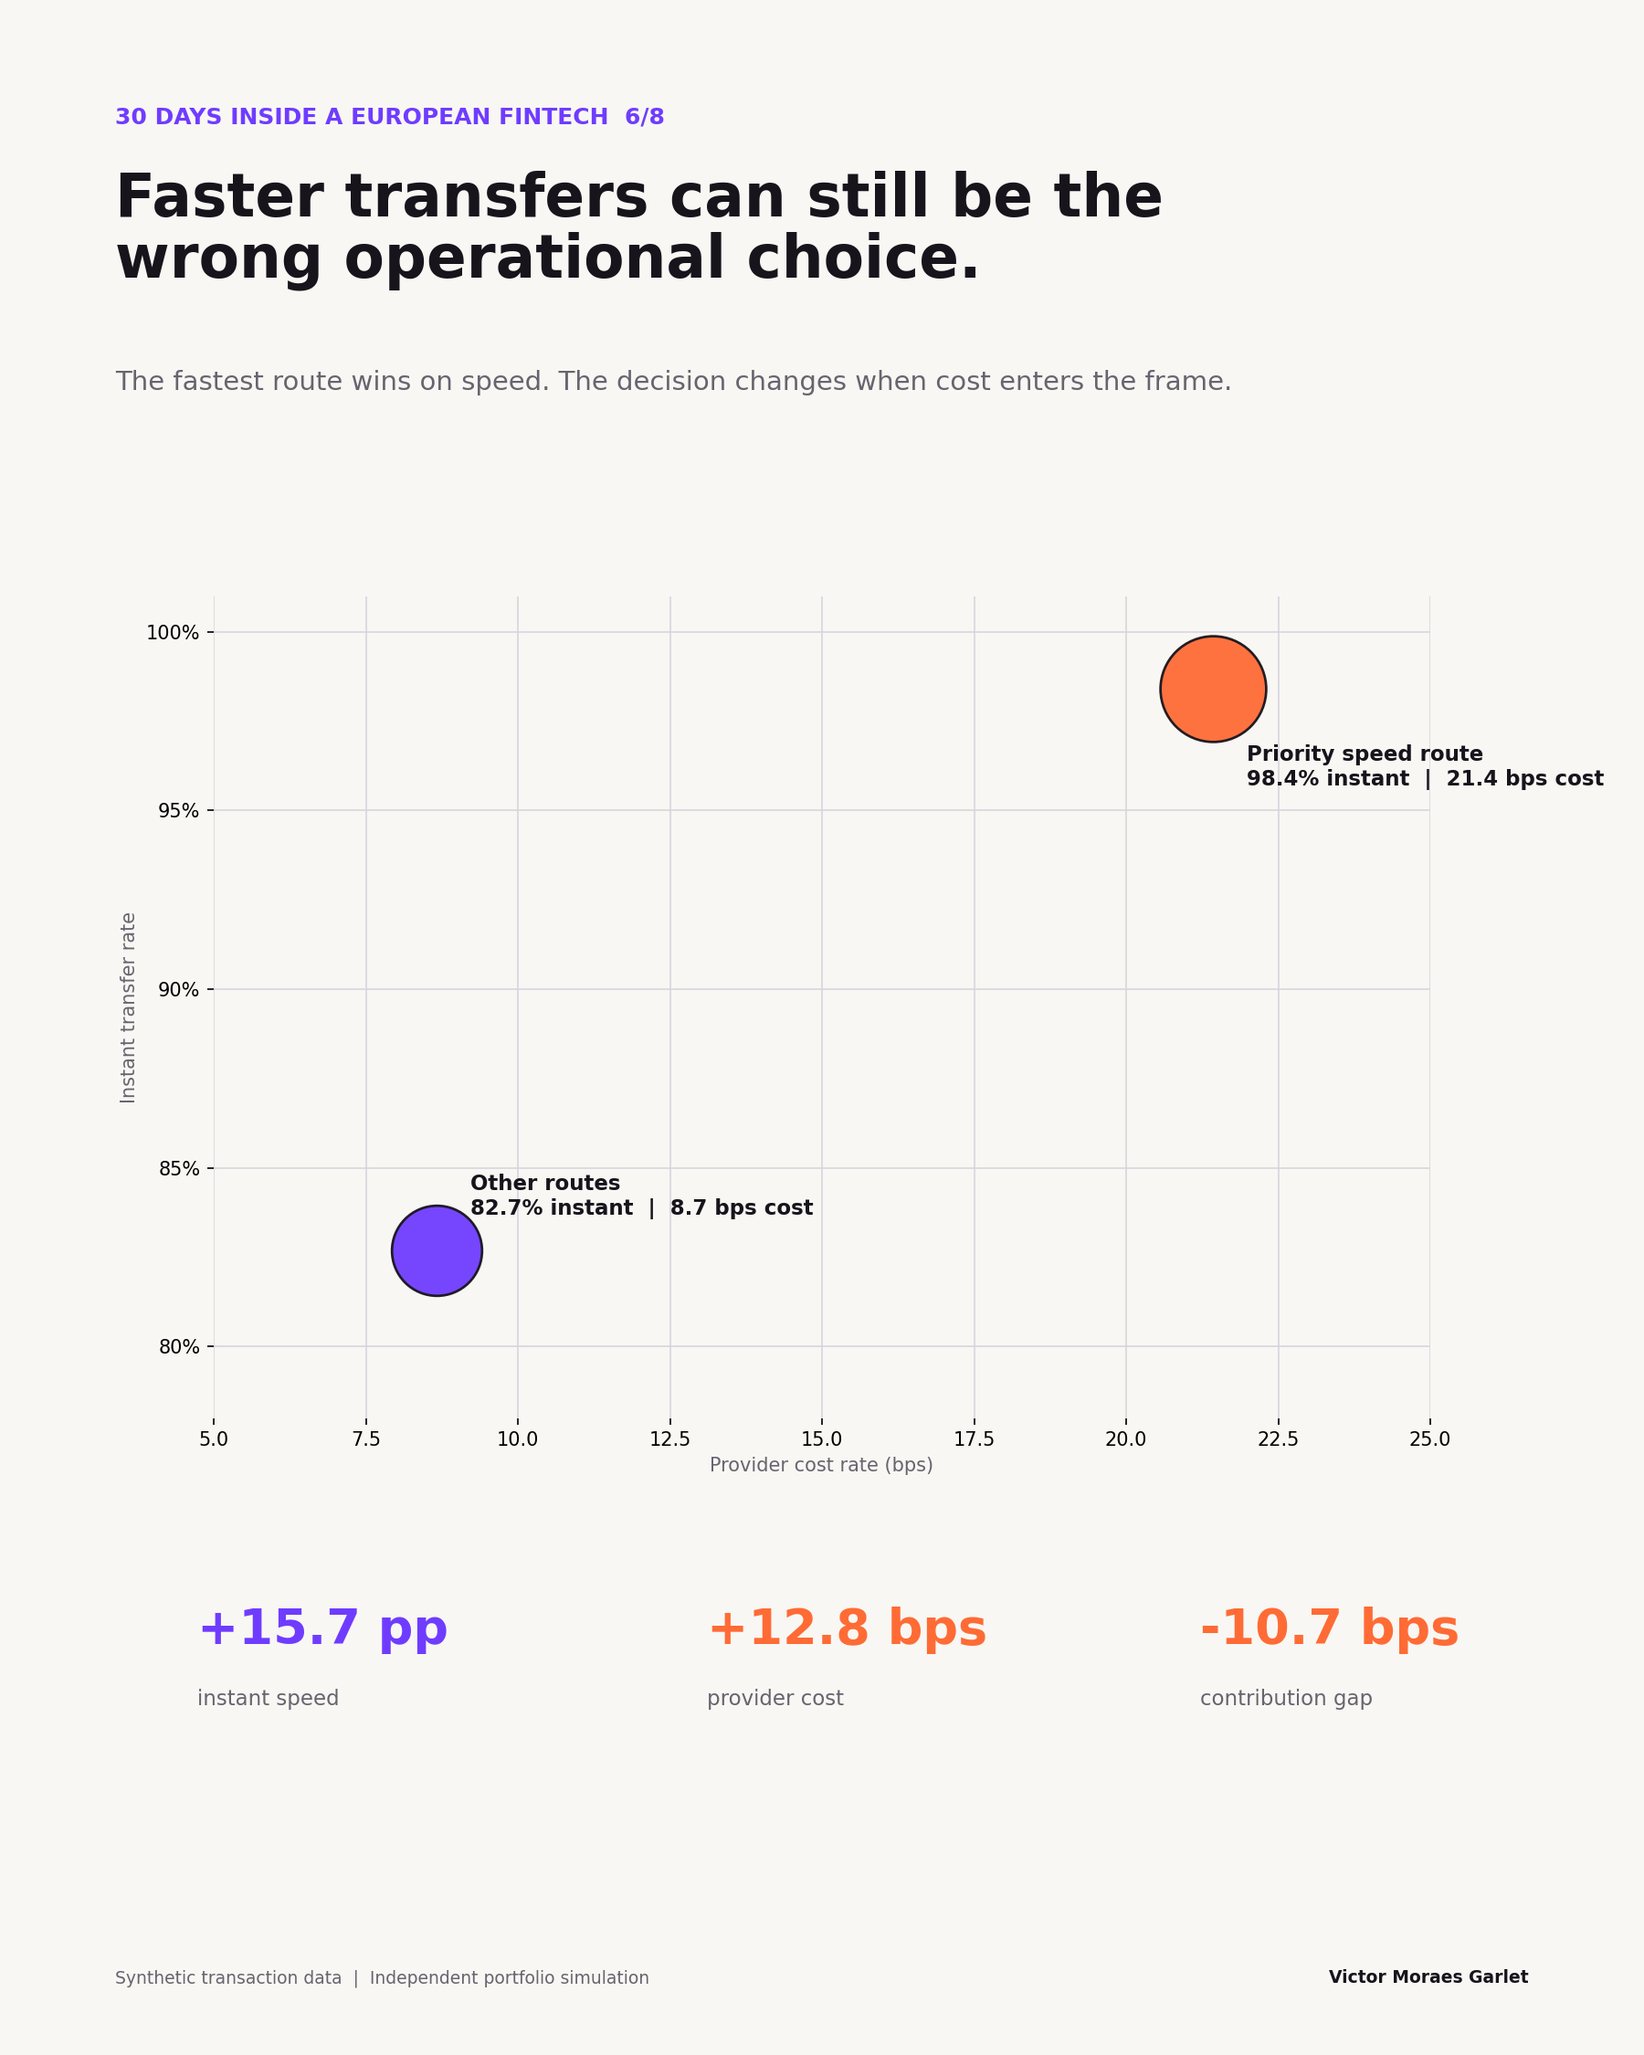
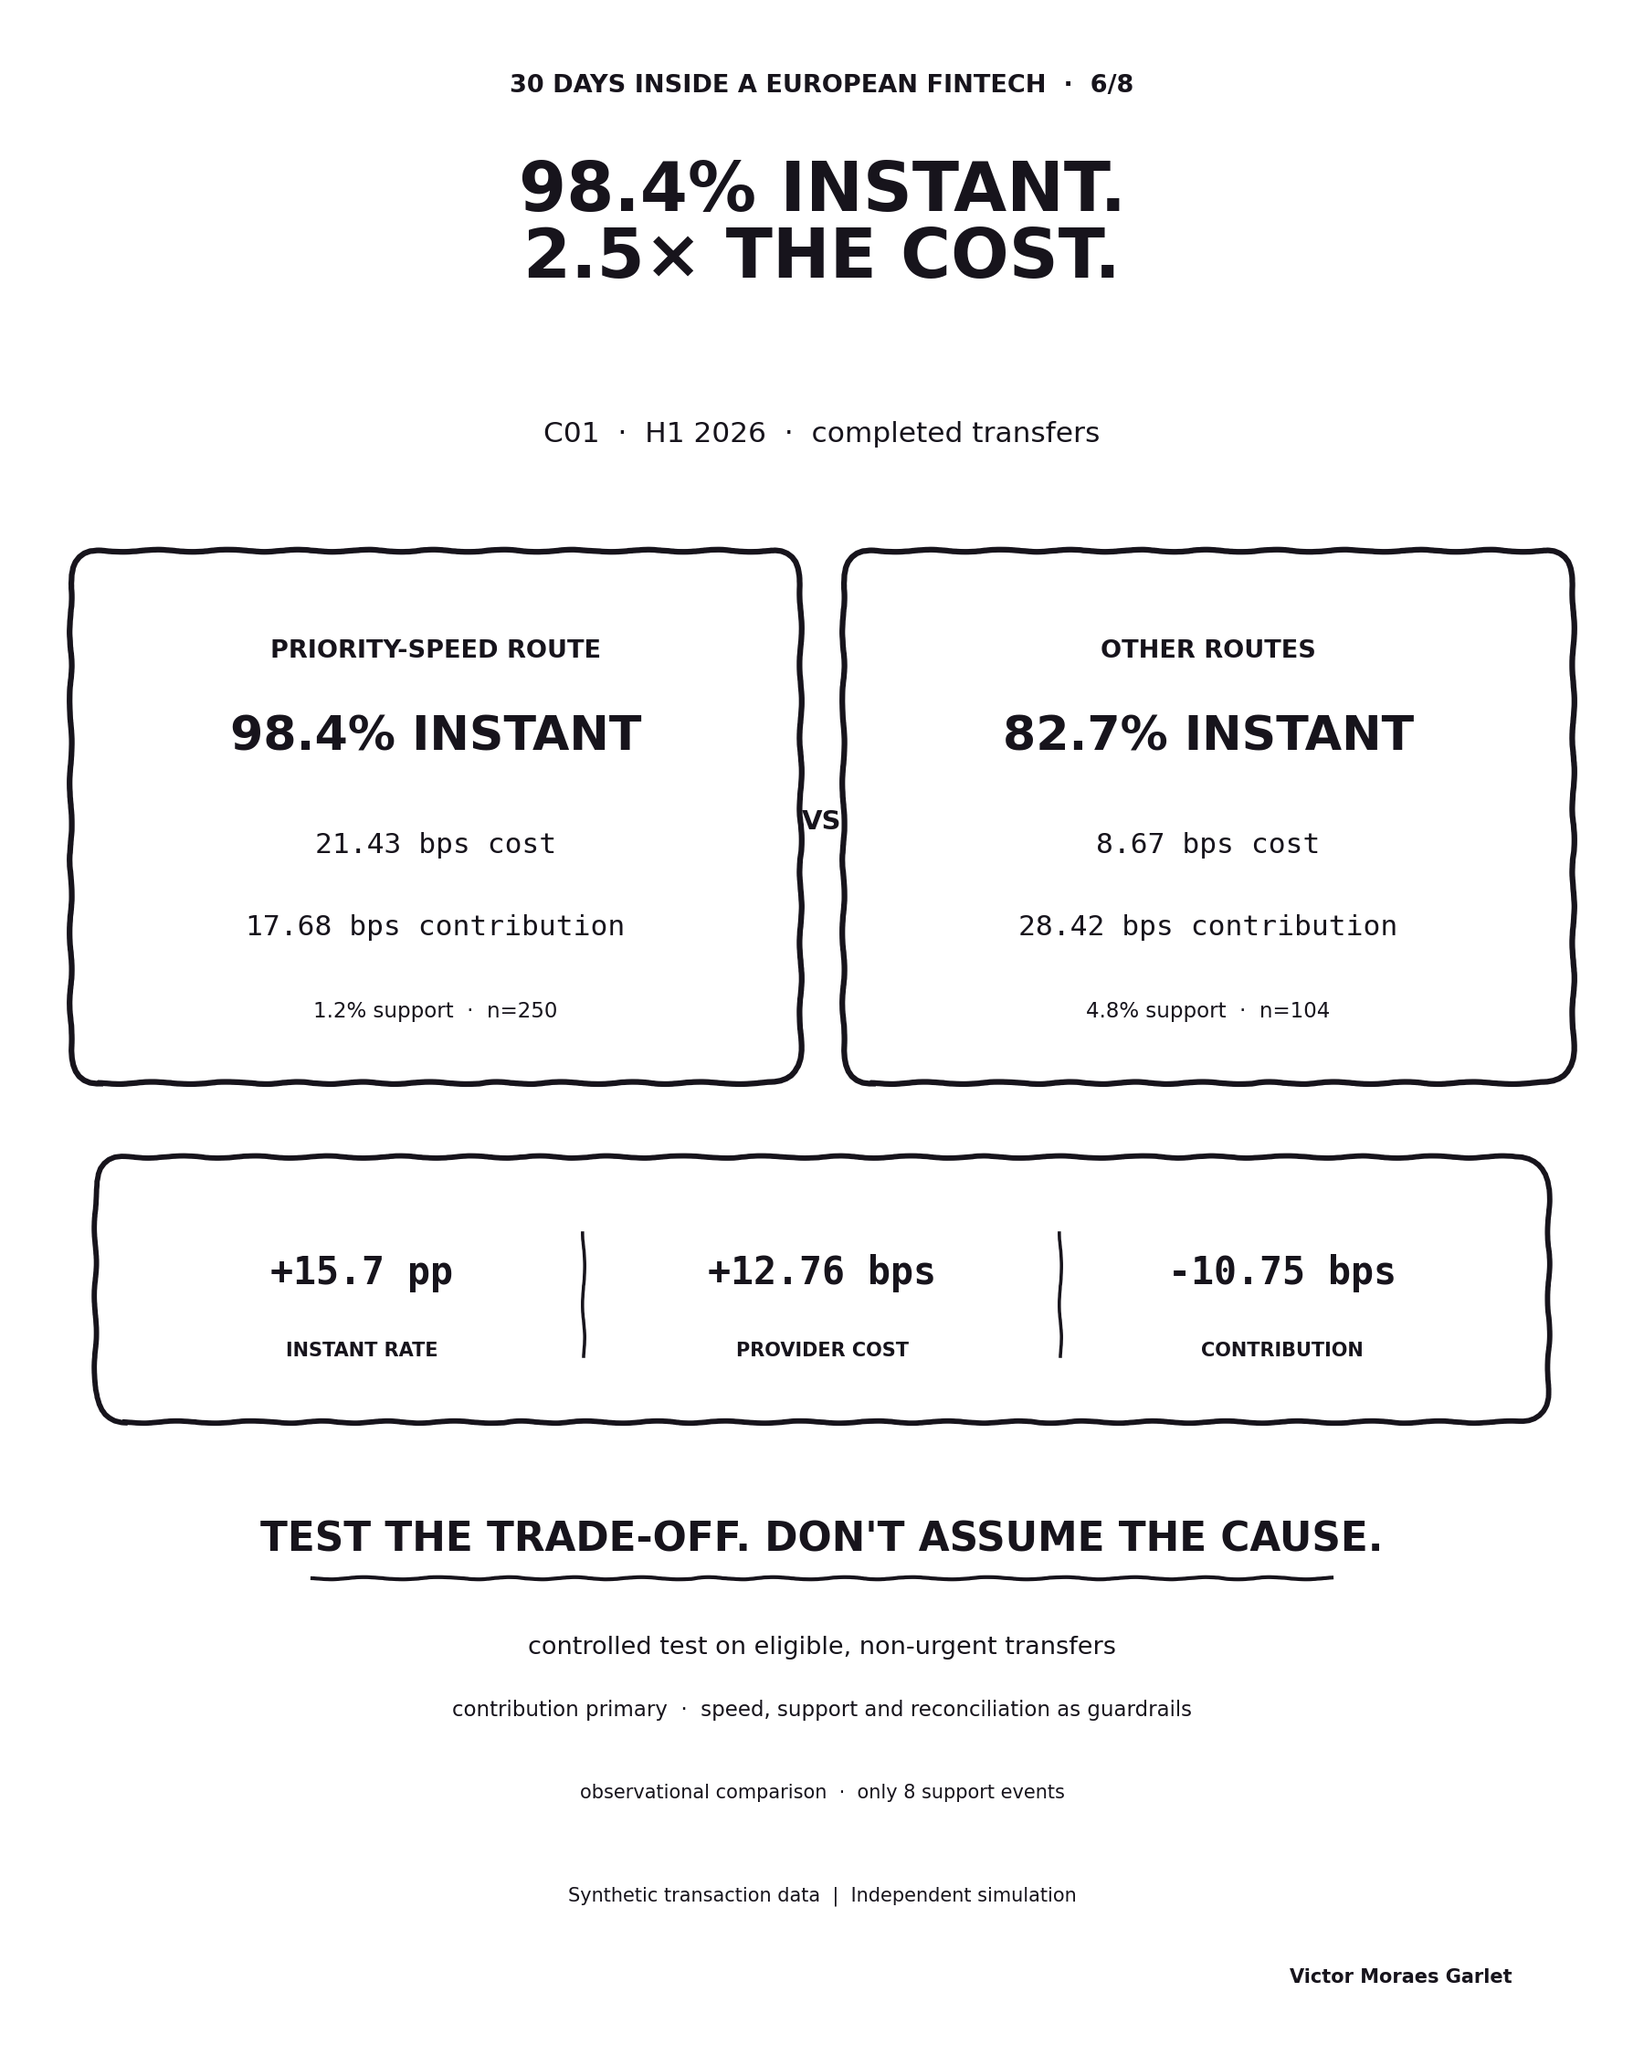
Approve and schedule episode 6

diff --git a/scripts/build_visuals.py b/scripts/build_visuals.py
@@ -464,40 +464,82 @@ def build_episode_05(connection):
 def build_episode_06(connection):
     rows = connection.execute(
         """
-        select route_group, instant_transfer_rate * 100, provider_cost_rate_bps,
-               support_contact_rate * 100, contribution_margin_proxy_bps, volume_usd
+        select route_group, completed_transfers, instant_transfer_rate * 100,
+               provider_cost_rate_bps, support_contact_rate * 100,
+               contribution_margin_proxy_bps
         from marts.mart_speed_cost_tradeoff
         order by provider_cost_rate_bps desc
         """
     ).fetchall()
-    fig, _ = base_figure(
-        6,
-        "Faster transfers can still be the\nwrong operational choice.",
-        "The fastest route wins on speed. The decision changes when cost enters the frame.",
-    )
-    ax = fig.add_axes((0.13, 0.31, 0.74, 0.40), facecolor=PAPER)
-    ax.spines[:].set_visible(False)
-    ax.grid(color=LINE, linewidth=0.8)
-    for route, instant, cost, support, contribution, volume in rows:
-        color = ORANGE if route == "priority_speed_route" else PURPLE
-        label = "Priority speed route" if route == "priority_speed_route" else "Other routes"
-        ax.scatter(cost, instant, s=volume / 320, color=color, edgecolor=INK, linewidth=1.3, alpha=0.95)
-        offset = (0.55, -2.7) if route == "priority_speed_route" else (0.55, 1.0)
-        ax.text(cost + offset[0], instant + offset[1], f"{label}\n{instant:.1f}% instant  |  {cost:.1f} bps cost", color=INK, fontsize=11, fontweight="bold")
-    ax.set_xlabel("Provider cost rate (bps)", color=MUTED)
-    ax.set_ylabel("Instant transfer rate", color=MUTED)
-    ax.set_yticks([80, 85, 90, 95, 100], ["80%", "85%", "90%", "95%", "100%"])
-    ax.set_xlim(5, 25)
-    ax.set_ylim(78, 101)
-
     priority = next(row for row in rows if row[0] == "priority_speed_route")
     other = next(row for row in rows if row[0] == "other_routes")
-    fig.text(0.12, 0.20, f"+{priority[1] - other[1]:.1f} pp", color=PURPLE, fontsize=26, fontweight="bold")
-    fig.text(0.12, 0.17, "instant speed", color=MUTED, fontsize=11)
-    fig.text(0.43, 0.20, f"+{priority[2] - other[2]:.1f} bps", color=ORANGE, fontsize=26, fontweight="bold")
-    fig.text(0.43, 0.17, "provider cost", color=MUTED, fontsize=11)
-    fig.text(0.73, 0.20, f"{priority[4] - other[4]:.1f} bps", color=ORANGE, fontsize=26, fontweight="bold")
-    fig.text(0.73, 0.17, "contribution gap", color=MUTED, fontsize=11)
+    instant_gap = priority[2] - other[2]
+    cost_gap = priority[3] - other[3]
+    contribution_gap = priority[5] - other[5]
+    cost_multiple = priority[3] / other[3]
+    support_events = round(priority[1] * priority[4] / 100 + other[1] * other[4] / 100)
+
+    fig = plt.figure(figsize=(12, 15), facecolor=WHITE)
+    ax = fig.add_axes((0, 0, 1, 1))
+    ax.set_xlim(0, 1)
+    ax.set_ylim(0, 1)
+    ax.axis("off")
+
+    def rough_card(x, y, width, height, linewidth=2.5):
+        patch = FancyBboxPatch(
+            (x, y),
+            width,
+            height,
+            boxstyle="round,pad=0.012,rounding_size=0.018",
+            linewidth=linewidth,
+            edgecolor=INK,
+            facecolor=WHITE,
+        )
+        patch.set_sketch_params(scale=1.2, length=90, randomness=2.5)
+        ax.add_patch(patch)
+
+    def rough_line(xs, ys, linewidth=2.2):
+        line, = ax.plot(xs, ys, color=INK, linewidth=linewidth)
+        line.set_sketch_params(scale=1.2, length=90, randomness=2.5)
+
+    fig.text(0.50, 0.955, "30 DAYS INSIDE A EUROPEAN FINTECH  ·  6/8", ha="center", color=INK, fontsize=13, fontweight="bold")
+    fig.text(0.50, 0.865, f"98.4% INSTANT.\n{cost_multiple:.1f}× THE COST.", ha="center", color=INK, fontsize=36, fontweight="bold", linespacing=1.0)
+    fig.text(0.50, 0.785, "C01  ·  H1 2026  ·  completed transfers", ha="center", color=INK, fontsize=15)
+
+    route_cards = [
+        (0.055, "PRIORITY-SPEED ROUTE", priority),
+        (0.525, "OTHER ROUTES", other),
+    ]
+    for x, heading, row in route_cards:
+        _, transfers, instant, cost, support, contribution = row
+        rough_card(x, 0.485, 0.42, 0.235, 3.0)
+        ax.text(x + 0.21, 0.68, heading, ha="center", color=INK, fontsize=13, fontweight="bold")
+        ax.text(x + 0.21, 0.635, f"{instant:.1f}% INSTANT", ha="center", color=INK, fontsize=25, fontweight="bold")
+        ax.text(x + 0.21, 0.585, f"{cost:.2f} bps cost", ha="center", color=INK, fontsize=15, family="monospace")
+        ax.text(x + 0.21, 0.545, f"{contribution:.2f} bps contribution", ha="center", color=INK, fontsize=15, family="monospace")
+        ax.text(x + 0.21, 0.505, f"{support:.1f}% support  ·  n={transfers}", ha="center", color=INK, fontsize=11)
+
+    ax.text(0.50, 0.60, "VS", ha="center", va="center", color=INK, fontsize=14, fontweight="bold")
+
+    rough_card(0.07, 0.32, 0.86, 0.105, 2.8)
+    tradeoffs = [
+        (0.22, f"+{instant_gap:.1f} pp", "INSTANT RATE"),
+        (0.50, f"+{cost_gap:.2f} bps", "PROVIDER COST"),
+        (0.78, f"{contribution_gap:.2f} bps", "CONTRIBUTION"),
+    ]
+    for x, value, label in tradeoffs:
+        ax.text(x, 0.375, value, ha="center", color=INK, fontsize=20, fontweight="bold", family="monospace")
+        ax.text(x, 0.34, label, ha="center", color=INK, fontsize=10, fontweight="bold")
+    rough_line([0.355, 0.355], [0.34, 0.40], 1.7)
+    rough_line([0.645, 0.645], [0.34, 0.40], 1.7)
+
+    ax.text(0.50, 0.245, "TEST THE TRADE-OFF. DON'T ASSUME THE CAUSE.", ha="center", color=INK, fontsize=21, fontweight="bold")
+    rough_line([0.19, 0.81], [0.232, 0.232], 2.0)
+    ax.text(0.50, 0.195, "controlled test on eligible, non-urgent transfers", ha="center", color=INK, fontsize=13)
+    ax.text(0.50, 0.165, "contribution primary  ·  speed, support and reconciliation as guardrails", ha="center", color=INK, fontsize=11)
+    ax.text(0.50, 0.125, f"observational comparison  ·  only {support_events} support events", ha="center", color=INK, fontsize=10)
+    fig.text(0.50, 0.075, "Synthetic transaction data  |  Independent simulation", ha="center", color=INK, fontsize=10)
+    fig.text(0.92, 0.035, "Victor Moraes Garlet", ha="right", color=INK, fontsize=10, fontweight="bold")
     save(fig, "episode_06_speed_cost_tradeoff.png")
 
 

diff --git a/tests/test_public_content.py b/tests/test_public_content.py
@@ -37,7 +37,7 @@ class PublicContentTestCase(unittest.TestCase):
 
     def test_editorial_calendar_tracks_release_status(self):
         calendar = (PROJECT_ROOT / "content" / "editorial_calendar.md").read_text(encoding="utf-8")
-        self.assertEqual(calendar.count("Hold for approval"), 3)
+        self.assertEqual(calendar.count("Hold for approval"), 2)
         self.assertIn(
             "| 5 | Tue, 13 Oct 2026 | Decompose the take-rate movement | Waterfall | Scheduled for 08:00 Europe/Dublin |",
             calendar,
@@ -56,6 +56,10 @@ class PublicContentTestCase(unittest.TestCase):
         )
         self.assertIn(
             "| 4 | Fri, 9 Oct 2026 | Isolate the settlement hotspot | Exception-rate comparison | Scheduled for 08:00 Europe/Dublin |",
+            calendar,
+        )
+        self.assertIn(
+            "| 6 | Fri, 16 Oct 2026 | Evaluate speed, cost and support | Trade-off chart | Scheduled for 08:00 Europe/Dublin |",
             calendar,
         )
 

diff --git a/content/posts/episode_06.md b/content/posts/episode_06.md
@@ -1,41 +1,76 @@
 # Episode 6: Evaluate speed against cost
 
-**Status:** Draft for approval  
+**Status:** Scheduled for Fri, 16 Oct 2026 at 08:00 Europe/Dublin
 **Visual:** `content/visuals/episode_06_speed_cost_tradeoff.png`
 
 ## Post copy
+
+The fastest route delivered 98.4% of transfers instantly.
+
+It also cost 2.5 times more per unit of volume.
+
+Would I move all traffic to the cheaper route? No.
 
 **30 Days Inside a European Fintech [6/8]**
 
 I'm using Wise's public disclosures and synthetic data to simulate how a Senior Data Analyst could work through a fintech problem from question to decision.
 
-The fastest route in the simulated corridor delivered 98.4% of transfers instantly.
+After separating price investment from fee leakage, I returned to the original question: can faster transfers justify their cost?
 
-The other routes delivered 82.7%.
+In C01 during H1 2026, I compared 250 completed transfers through the priority-speed provider with 104 through the other providers.
 
-On speed alone, the decision looks easy.
+The priority route delivered:
 
-Then I added provider cost, support and contribution:
+• 98.4% instant transfers
 
-• priority-speed route cost: 21.43 bps  
-• other-route cost: 8.67 bps  
-• priority-route contribution proxy: 17.68 bps  
-• other-route contribution proxy: 28.42 bps
+• 21.43 bps provider cost
 
-The priority route bought 15.7 percentage points of instant delivery at a 12.76 bps cost premium.
+• 1.2% support-contact rate
 
-There was another important signal. Its support-contact rate was 1.2%, compared with 4.8% on the other routes.
+• 17.68 bps contribution margin proxy
 
-So a blanket move to the cheaper routes would be difficult to defend. It could improve unit economics while creating slower delivery and more customer contacts.
+The other routes delivered:
 
-The comparison is also observational. Provider assignment was not random, so transfer type, customer promise or operational risk may influence both routing and outcomes.
+• 82.7% instant transfers
 
-My next step is a controlled test on eligible, non-urgent transfers. Contribution margin is the primary metric. Instant rate, delivery time, support contacts and reconciliation are guardrails.
+• 8.67 bps provider cost
 
-Averages can identify a trade-off. They cannot tell us what would happen to the same transfer under another route. That is the point where analysis should become experiment design.
+• 4.8% support-contact rate
 
-Quick glossary  
-*Provider cost rate = provider cost divided by transfer volume, expressed in basis points.  
-*Guardrail = a metric that must stay within an agreed limit while testing a change.
+• 28.42 bps contribution margin proxy
 
-This is an independent simulation inspired by Wise's public disclosures. I am not affiliated with Wise. All transaction-level data and project findings are synthetic; any company-level figures are sourced from public reports.
+The priority route bought 15.7 percentage points of additional instant delivery.
+
+It also added 12.76 bps in provider cost and finished 10.75 bps lower on contribution.
+
+That does not make the expensive route a bad decision. It was faster and coincided with fewer customer contacts.
+
+A blanket move to the cheaper routes could improve unit economics while slowing transfers and creating more work for Support.
+
+But I would not turn this comparison into a routing policy yet.
+
+Provider assignment was not random. Urgency, customer promise, payment method or operational risk could influence both the route selected and the result.
+
+Only eight transfers had a support contact, so that difference is a signal, not a conclusion.
+
+My next step would be a controlled test on eligible, non-urgent transfers, randomised within comparable groups.
+
+Contribution per unit of volume would be the primary metric. Instant rate, delivery time, support contacts and reconciliation exceptions would be guardrails agreed before the test.
+
+I would start with a limited share of traffic and stop or narrow the treatment if a guardrail crossed its threshold.
+
+This analysis shows that the trade-off is worth testing. It does not show what would happen to the same transfer under another route.
+
+That is the line between a useful comparison and an unsupported recommendation.
+
+Next, I will combine the pricing, settlement and routing findings to decide what should be fixed now, controlled operationally or tested before scaling.
+
+Quick glossary
+
+*Basis point (bps) = 0.01 percentage point.
+
+*Contribution margin proxy = collected fee minus provider cost and estimated support cost in this simulation.
+
+*Guardrail = a metric that must stay within an agreed limit while a test is running.
+
+Disclosure: This is an independent simulation inspired by Wise's public disclosures. I am not affiliated with Wise. All transaction-level data and project findings are synthetic; any company-level figures are sourced from public reports.

diff --git a/content/editorial_calendar.md b/content/editorial_calendar.md
@@ -6,7 +6,7 @@ Publish twice per week, Tuesday and Friday at 08:00 Europe/Dublin.
 
 The technical project can be completed in one sprint. The public story benefits from four weeks because each post has time to circulate, collect discussion and lead naturally into the next decision.
 
-Episodes 1–5 are scheduled. Episodes 6–8 remain on hold for review and approval.
+Episodes 1–6 are scheduled. Episodes 7–8 remain on hold for review and approval.
 
 | Episode | Date | Role in the series | Visual | Status |
 | --- | --- | --- | --- | --- |
@@ -15,7 +15,7 @@ Episodes 1–5 are scheduled. Episodes 6–8 remain on hold for review and appro
 | 3 | Tue, 6 Oct 2026 | Reconcile Finance and Operations clocks | Reporting bridge | Scheduled for 08:00 Europe/Dublin |
 | 4 | Fri, 9 Oct 2026 | Isolate the settlement hotspot | Exception-rate comparison | Scheduled for 08:00 Europe/Dublin |
 | 5 | Tue, 13 Oct 2026 | Decompose the take-rate movement | Waterfall | Scheduled for 08:00 Europe/Dublin |
-| 6 | Fri, 16 Oct 2026 | Evaluate speed, cost and support | Trade-off chart | Hold for approval |
+| 6 | Fri, 16 Oct 2026 | Evaluate speed, cost and support | Trade-off chart | Scheduled for 08:00 Europe/Dublin |
 | 7 | Tue, 20 Oct 2026 | Convert findings into actions and a test | Decision matrix | Hold for approval |
 | 8 | Fri, 23 Oct 2026 | Present the final leadership recommendation | Executive decision page | Hold for approval |
 
